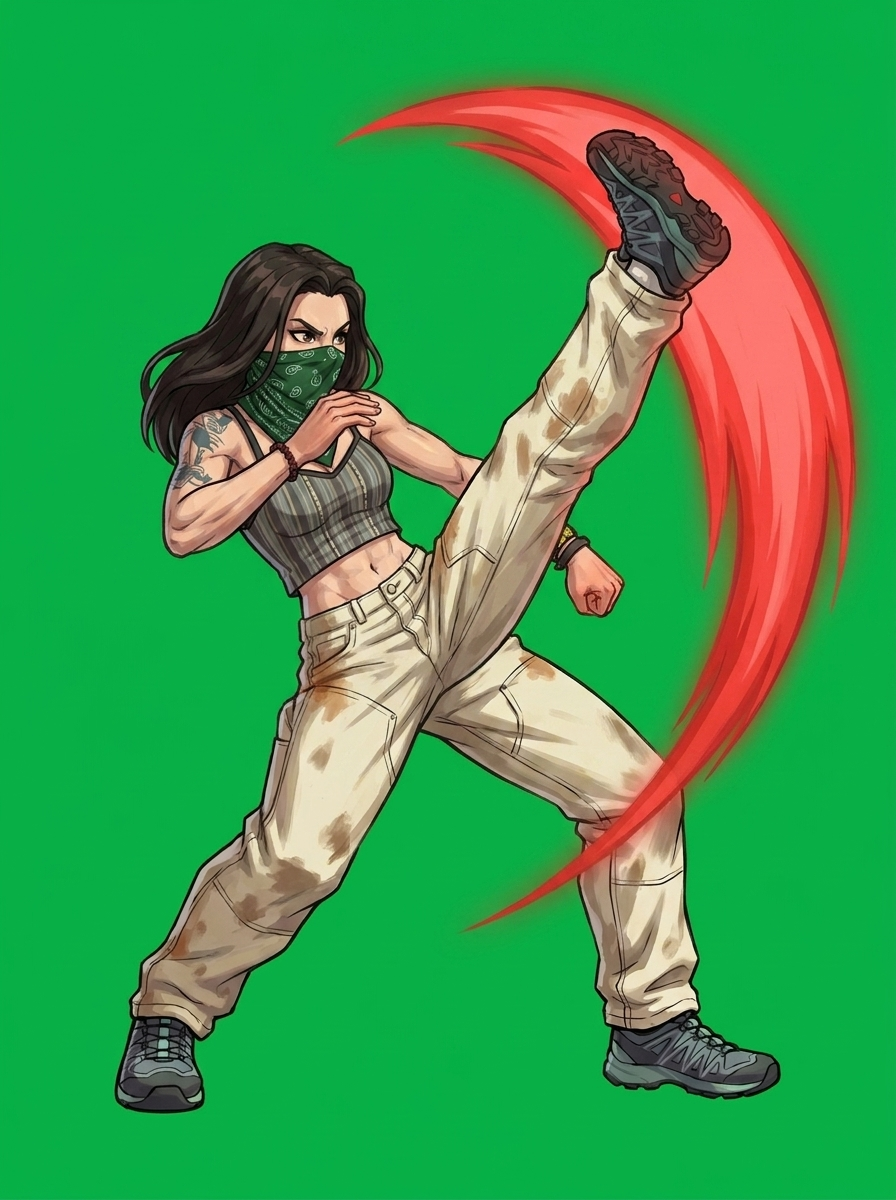
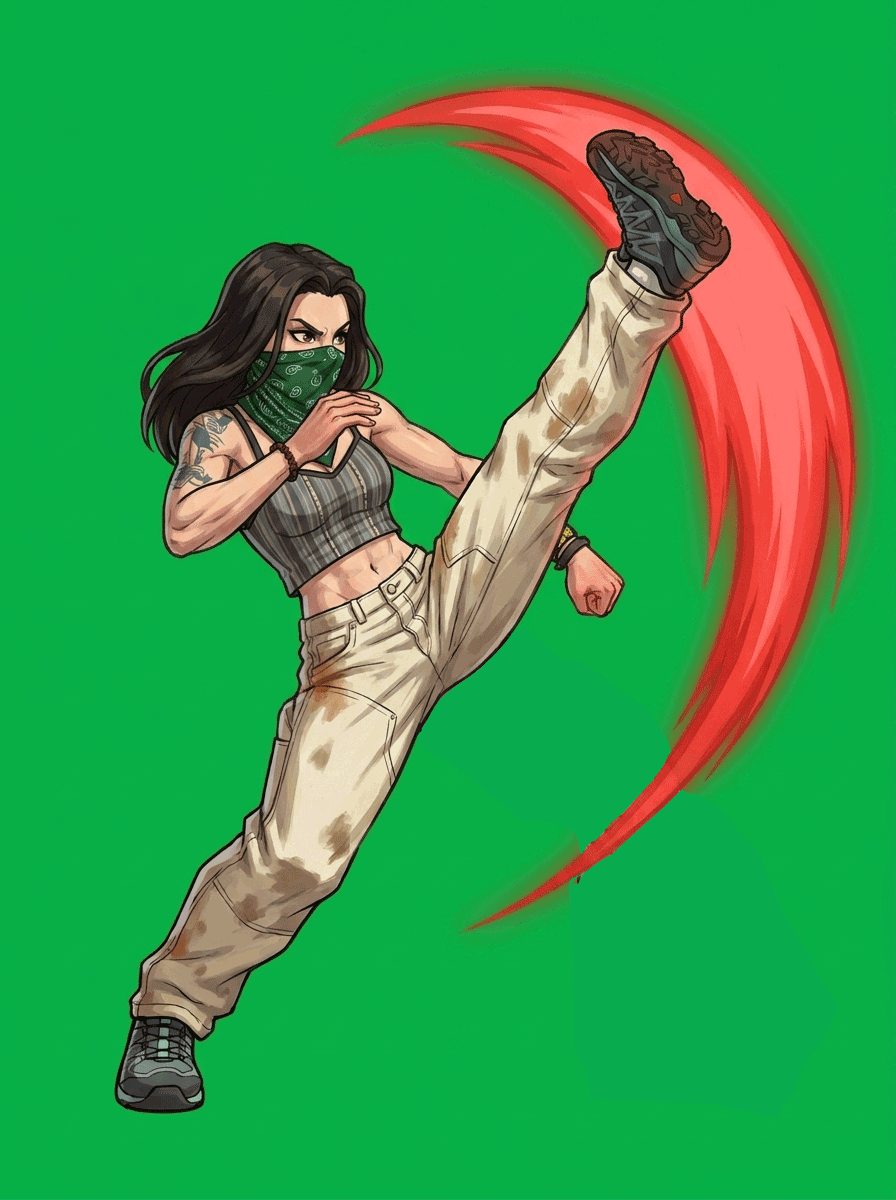
assets: yulia frame QA re-rolls + 12 new candidate-fighter inspo photos
Two volga/backbend cells re-rolled and sheet repacked (recovery prompt
tightened in frames-manifest). New inspo photos: bodhi, cat, chebel, earl,
haidai, katana, lyosha, rapha, seva, vanessa, xiao-chen, ygor (+face shots);
unnamed passport jpgs replaced by named files.

Changed region(s): [[0.4688, 0.5242, 0.875, 0.925], [0.75, 0.2467, 0.7812, 0.2775], [0.6562, 0.4933, 0.6875, 0.5242]]

diff --git a/SPRINTBOARD.md b/SPRINTBOARD.md
@@ -463,6 +463,17 @@ victory song: a `victorySong` attribute in the character JSON names a track in
 
 *(newest first; add one entry per commit: date · scope · what changed · by whom/agent)*
 
+- **2026-07-03 · assets · yulia frame QA + new-roster inspo batch** — yulia:
+  re-rolled `51-backbend-guillotine-active` and `55-volga-piledriver-recovery`
+  (volga recovery prompt in `frames-manifest.mjs` tightened: compact dust puff
+  kept away from the frame edges) and repacked her 8×7 sheet. Character-inspo:
+  12 new candidate-fighter photos added (bodhi, cat, chebel, earl, haidai,
+  katana, lyosha, rapha, seva, vanessa, xiao-chen, ygor + lyosha/ygor/seva
+  face shots); the two unnamed MARS-PASSPORT jpgs were replaced by their
+  named equivalents. Work from the parallel session, committed on user
+  request. NOTE: the repo is public — these are photos of real people, same
+  standing caveat as the original eight. — Claude
+
 - **2026-07-03 · verify+assets · Sprint 16: gamepad path verified end-to-end +
   juice/VFX demo recorded** — synthetic standard-mapping pad injected into the
   preview browser (`navigator.getGamepads` monkeypatch; GOTCHA: Phaser's